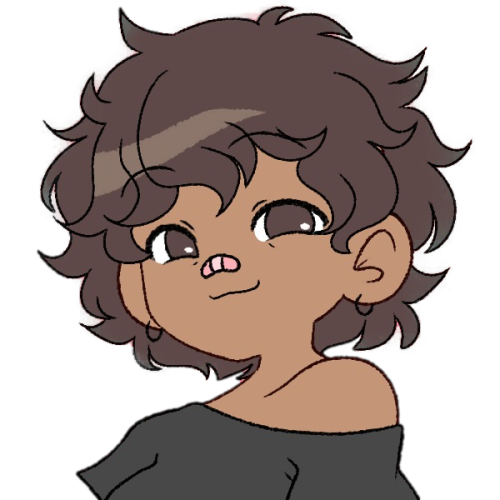
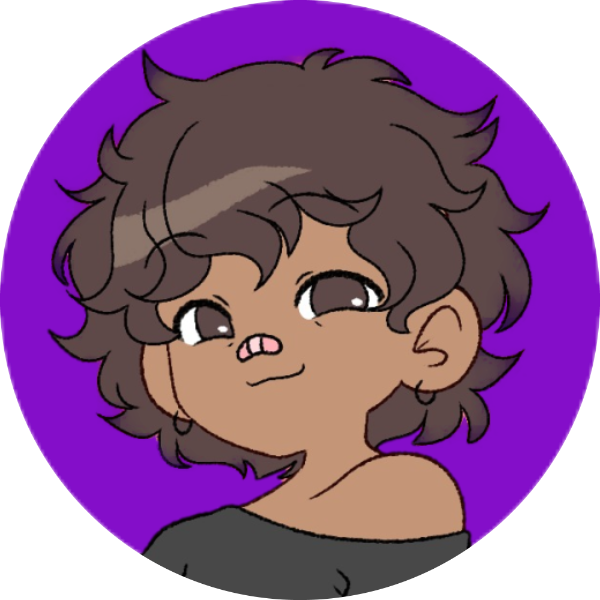
update kiwi

diff --git a/index.html b/index.html
@@ -46,7 +46,7 @@
         </aside>
 
         <article>
-            <img src="components/images/Kiwi-icon-main.png" alt="Kiwi">
+            <img src="components/images/Captura de tela 2022-10-29 142511 (1) (1) (1).png" alt="Kiwi">
         </article>
 
     </main>

diff --git a/styles/style.css b/styles/style.css
@@ -69,7 +69,7 @@ p {
 }
 
 img {
-    width: 450px;
+    width: 480px;
 }
 
 footer {
